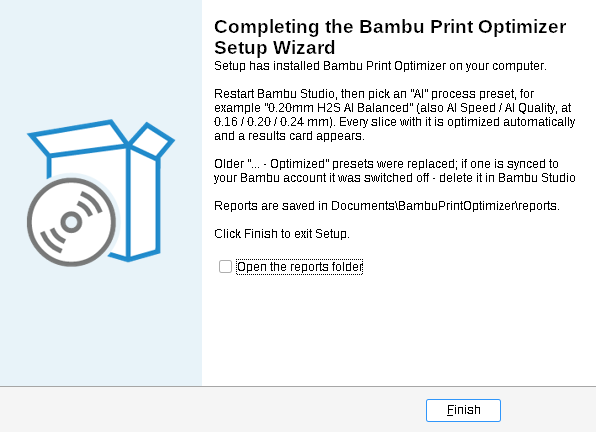
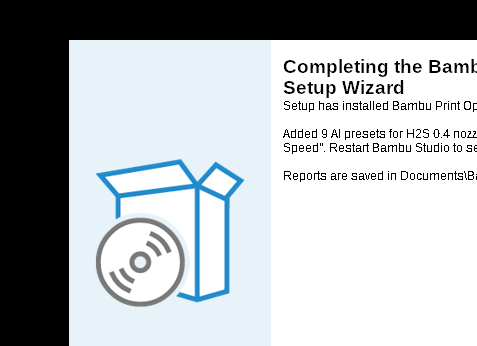
1.2.1: parse BambuStudio.conf with MD5 trailer, detect printer from presets.machine, sync-aware cleanup, finish-page status

diff --git a/src/bambu_presets.py b/src/bambu_presets.py
@@ -41,6 +41,33 @@ def _load(p):
         return None
 
 
+def load_conf(data_dir):
+    """BambuStudio.conf = JSON followed by a '# MD5 checksum ...' line (AppConfig::save). Strip '#' lines and
+    anything after the last '}'. Returns {} if unreadable. Never log the contents (it holds printer access codes)."""
+    try:
+        with open(os.path.join(data_dir, 'BambuStudio.conf'), encoding='utf-8', errors='replace') as f:
+            txt = f.read()
+    except OSError:
+        return {}
+    txt = '\n'.join(l for l in txt.splitlines() if not l.lstrip().startswith('#'))
+    end = txt.rfind('}')
+    if end < 0:
+        return {}
+    try:
+        j = json.loads(txt[:end + 1])
+        return j if isinstance(j, dict) else {}
+    except ValueError:
+        return {}
+
+
+def sync_enabled(conf):
+    """app.sync_user_preset: Bambu Studio only syncs user presets with the cloud when this is "true"
+    (GUI_App: start_sync_user_preset). Default false."""
+    app = conf.get('app') if isinstance(conf.get('app'), dict) else {}
+    v = app.get('sync_user_preset', False)
+    return v is True or str(v).strip().lower() in ('true', '1')
+
+
 def system_profiles_dir(data_dir, extra=()):
     """Bambu copies the vendor bundle to <data_dir>/system; fall back to the program's resources/profiles."""
     cands = [os.path.join(data_dir, 'system')] + list(extra)
@@ -54,27 +81,35 @@ def system_profiles_dir(data_dir, extra=()):
     return None
 
 
-def installed_printers(data_dir, sysdir):
-    """Machine preset names like 'Bambu Lab H2S 0.4 nozzle' the user has added in Bambu Studio."""
+def installed_printers(data_dir, sysdir, conf=None):
+    """System machine preset names like 'Bambu Lab H2S 0.4 nozzle' the user has in Bambu Studio, from:
+    conf "models" (enabled vendor models + nozzle variants), conf presets.machine (selected printer) and other
+    presets.* machine entries, and user machine presets (their "inherits", followed through user parents)."""
+    conf = load_conf(data_dir) if conf is None else conf
     found = []
-    conf = _load(os.path.join(data_dir, 'BambuStudio.conf')) or {}
-    # newer versions: "models": [{"model": "Bambu Lab H2S", "nozzle_diameter": "0.4;0.2", "vendor": "BBL"}]
-    for m in conf.get('models', []) if isinstance(conf.get('models'), list) else []:
-        if isinstance(m, dict) and m.get('vendor', 'BBL') == 'BBL' and m.get('model'):
+    models = conf.get('models') if isinstance(conf.get('models'), list) else []
+    for m in models:
+        if isinstance(m, dict) and str(m.get('vendor', 'BBL')) == 'BBL' and m.get('model'):
             for nd in re.split(r'[;,]', str(m.get('nozzle_diameter', '0.4'))):
-                if nd.strip():
-                    found.append('%s %s nozzle' % (m['model'], nd.strip()))
-    sel = (conf.get('presets') or {}).get('machine')
-    if isinstance(sel, str):
-        found.append(sel)
-    # user machine presets that inherit a system printer
+                nd = nd.strip().strip('"').strip()
+                if nd:
+                    found.append('%s %s nozzle' % (m['model'], nd))
+    presets = conf.get('presets') if isinstance(conf.get('presets'), dict) else {}
+    for k, v in presets.items():
+        if isinstance(v, str) and (k == 'machine' or k.startswith('machine')):
+            found.append(v)
+    user_machines = {}
     for p in glob.glob(os.path.join(data_dir, 'user', '*', 'machine', '*.json')):
         j = _load(p) or {}
-        if j.get('inherits'):
-            found.append(j['inherits'])
+        user_machines[j.get('name') or os.path.basename(p)[:-5]] = j.get('inherits', '')
+    for n in list(found) + list(user_machines):
+        seen = 0
+        while n in user_machines and seen < 10:      # user printer -> its (system) parent
+            n = user_machines[n]; seen += 1
+        found.append(n)
     out = []
     for n in found:
-        if n not in out and os.path.isfile(os.path.join(sysdir, 'BBL', 'machine', n + '.json')):
+        if n and n not in out and os.path.isfile(os.path.join(sysdir, 'BBL', 'machine', n + '.json')):
             out.append(n)
     return out
 
@@ -82,7 +117,7 @@ def installed_printers(data_dir, sysdir):
 def active_preset_folder(data_dir):
     """Folder Bambu Studio loads user presets from: BambuStudio.conf app.preset_folder (the account id when
     signed in, see PresetBundle::load_user_presets). Empty -> "default"."""
-    conf = _load(os.path.join(data_dir, 'BambuStudio.conf')) or {}
+    conf = load_conf(data_dir)
     app = conf.get('app') if isinstance(conf.get('app'), dict) else {}
     for v in (app.get('preset_folder'), conf.get('preset_folder')):
         if isinstance(v, str) and v.strip():
@@ -246,11 +281,12 @@ def _neutralize(path, j, info, note):
     _write_info(path[:-5] + '.info', _touch_info(info))
 
 
-def _retire(path, log, backup_dir, note):
-    """Remove one of our presets cloud-safely. Bambu Studio has no file-level "deleted" marker: cloud deletions
-    are only queued in memory by its own Delete command (GUI_App::delete_preset_from_cloud), and a cloud preset
-    that is missing locally is downloaded again on the next sync. So:
-      * not synced (no setting_id): delete the files
+def _retire(path, log, backup_dir, note, synced_folder):
+    """Remove one of our presets. Bambu Studio has no file-level "deleted" marker: cloud deletions are only queued
+    in memory by its own Delete command (GUI_App::delete_preset_from_cloud), and a cloud preset that is missing
+    locally is downloaded again on the next sync. So:
+      * cloud sync off for this folder (app.sync_user_preset false, or the offline "default" folder), or the preset
+        never got a cloud id: delete the files
       * synced: keep the file, clear post_process (+ note), mark it for upload -> harmless; delete it in Bambu."""
     j = _load(path)
     ipath = path[:-5] + '.info'
@@ -258,7 +294,7 @@ def _retire(path, log, backup_dir, note):
     uid = os.path.basename(os.path.dirname(os.path.dirname(path)))
     if backup_dir:
         _backup(path, backup_dir, uid)
-    if info.get('setting_id'):
+    if synced_folder and info.get('setting_id'):
         _neutralize(path, j, info, note)
         log('cleared cloud-synced preset (delete it in Bambu Studio): %s' % path)
         return 'cleared'
@@ -271,27 +307,45 @@ def _retire(path, log, backup_dir, note):
     return 'removed'
 
 
-def install(cmdline, data_dir=None, manifest=None, log=print, sysdir_extra=(), backup_dir=None):
-    """cmdline: post-processing line containing '{goal}', e.g. '"C:\\...\\PrintOptimizer.exe" --goal {goal}'."""
+def _folder_synced(ud, sync_on):
+    return sync_on and os.path.basename(ud) != 'default'
+
+
+def install(cmdline, data_dir=None, manifest=None, log=print, sysdir_extra=(), backup_dir=None, stats=None):
+    """cmdline: post-processing line containing '{goal}', e.g. '"C:\\...\\PrintOptimizer.exe" --goal {goal}'.
+    stats (dict, optional) is filled with printers / written / removed / cleared / skipped / status."""
+    st = stats if stats is not None else {}
+    st.update(printers=[], written=[], removed=[], cleared=[], skipped=[], status='')
     data_dir = data_dir or bambu_data_dir()
     sysdir = system_profiles_dir(data_dir, sysdir_extra)
     if not sysdir:
+        st['status'] = 'nosystem'
         log('Bambu Studio system profiles not found under %s - start Bambu Studio once, then run --install-presets again' % data_dir)
         return []
+    conf = load_conf(data_dir)
+    if not conf:
+        log('BambuStudio.conf not found or unreadable in %s' % data_dir)
+    sync_on = sync_enabled(conf)
+    log('Bambu cloud sync of user presets: %s' % ('on' if sync_on else 'off'))
     version = (_load(os.path.join(sysdir, 'BBL.json')) or {}).get('version', '01.00.00.00')
-    if not installed_printers(data_dir, sysdir):
+    st['printers'] = installed_printers(data_dir, sysdir, conf)
+    if not st['printers']:
+        st['status'] = 'noprinter'
         log('no Bambu Lab printers found in BambuStudio.conf / user machine presets - nothing to do')
         return []
+    log('printers: %s' % ', '.join(st['printers']))
     todo = plan(data_dir, sysdir)
-    written = []
+    written = st['written']
     for ud in user_dirs(data_dir):
         pdir = os.path.join(ud, 'process'); os.makedirs(pdir, exist_ok=True)
         uid = os.path.basename(ud)
+        synced = _folder_synced(ud, sync_on)
         # 1) migrate 1.0/1.1 "... - Optimized" presets (marked, or legacy ones pointing at this tool)
         for old in sorted(glob.glob(os.path.join(pdir, '*' + SUFFIX + '.json'))):
             if _is_ours(_load(old)):
-                _retire(old, log, backup_dir, 'Replaced by Print Optimizer presets named "<layer>mm <printer> AI <Goal>" '
-                        '(e.g. "0.20mm H2S AI Balanced"). This preset no longer post-processes - delete it in Bambu Studio.')
+                r = _retire(old, log, backup_dir, 'Replaced by Print Optimizer presets named "<layer>mm <printer> AI <Goal>" '
+                            '(e.g. "0.20mm H2S AI Balanced"). This preset no longer post-processes - delete it in Bambu Studio.', synced)
+                st[r].append(old)
         # 2) write the new set
         for name, parent, goal, base_id in todo:
             path = os.path.join(pdir, name + '.json')
@@ -299,6 +353,7 @@ def install(cmdline, data_dir=None, manifest=None, log=print, sysdir_extra=(), b
             exists = os.path.exists(path)
             old = _load(path) if exists else None
             if exists and not _is_ours(old):
+                st['skipped'].append(path)
                 log('skip %s: a preset with that name already exists and was not created by this tool' % path)
                 continue
             line = cmdline.replace('{goal}', goal)
@@ -327,6 +382,8 @@ def install(cmdline, data_dir=None, manifest=None, log=print, sysdir_extra=(), b
             _write_info(ipath, _touch_info(info))
             written.append(path)
             log('wrote preset: %s' % path)
+    st['status'] = 'ok'
+    st['names'] = [t[0] for t in todo]
     if manifest:
         prev = (_load(manifest) or {}).get('presets', [])
         with open(manifest, 'w', encoding='utf-8') as f:
@@ -334,11 +391,36 @@ def install(cmdline, data_dir=None, manifest=None, log=print, sysdir_extra=(), b
     return written
 
 
+def status_text(st):
+    """One short paragraph for the installer's finish page / message box."""
+    s = st.get('status')
+    if s == 'noprinter':
+        return ('No Bambu Lab printer was found in Bambu Studio, so no AI presets were added. Open Bambu Studio, add or '
+                'select your printer, close Bambu Studio, then run Start menu > Print Optimizer > "Add Bambu Studio presets".')
+    if s == 'nosystem':
+        return ('Bambu Studio\'s printer profiles were not found, so no AI presets were added. Start Bambu Studio once, '
+                'close it, then run Start menu > Print Optimizer > "Add Bambu Studio presets".')
+    if s != 'ok':
+        return 'The Bambu Studio presets could not be added (see presets.log in the install folder).'
+    names = st.get('names') or []
+    out = 'Added %d AI presets for %s, e.g. "%s".' % (len(names), ', '.join(
+        re.sub(r'^Bambu Lab ', '', p) for p in st.get('printers', [])), names[len(names) // 2] if names else '')
+    if st.get('removed'):
+        out += ' Old "... - Optimized" presets were removed.'
+    if st.get('cleared'):
+        out += (' %d old "... - Optimized" preset(s) synced to your Bambu account were switched off - delete them in '
+                'Bambu Studio.' % len(st['cleared']))
+    if st.get('skipped'):
+        out += ' %d preset name(s) were already used by your own presets and were left alone.' % len(st['skipped'])
+    return out + ' Restart Bambu Studio to see them.'
+
+
 def remove(data_dir=None, manifest=None, log=print, backup_dir=None):
     """Undo install() in every user/<id> folder: our "... AI <Goal>" and old "... - Optimized" presets only.
-    Unsynced ones are deleted; cloud-synced ones are cleared (see _retire) because Bambu Studio would re-download
-    a locally deleted cloud preset - which would still call the removed exe and make slicing fail."""
+    Deleted, except cloud-synced ones (sync on + cloud id), which are cleared (see _retire) because Bambu Studio
+    would re-download a locally deleted cloud preset - still calling the removed exe, so slicing would fail."""
     data_dir = data_dir or bambu_data_dir()
+    sync_on = sync_enabled(load_conf(data_dir))
     cands = set((_load(manifest) or {}).get('presets', [])) if manifest else set()
     for ud in user_dirs(data_dir):
         cands |= set(glob.glob(os.path.join(ud, 'process', '*.json')))
@@ -347,6 +429,8 @@ def remove(data_dir=None, manifest=None, log=print, backup_dir=None):
         j = _load(p)
         if j is None or not _owned(p, j):
             continue     # never touch unrelated presets
-        _retire(p, log, None, 'Bambu Print Optimizer was uninstalled; this preset no longer post-processes. Delete it in Bambu Studio.')
+        ud = os.path.dirname(os.path.dirname(p))
+        _retire(p, log, None, 'Bambu Print Optimizer was uninstalled; this preset no longer post-processes. Delete it in Bambu Studio.',
+                _folder_synced(ud, sync_on))
         done.append(p)
     return done

diff --git a/test/test_presets.py b/test/test_presets.py
@@ -28,7 +28,7 @@ def main():
               '0.12mm High Quality @BBL H2S', '0.20mm Strength @BBL H2S'):
         sysproc(d, n, [H2S])
     sysproc(d, 'fdm_process_common', [H2S], inst='false')
-    w(os.path.join(d, 'BambuStudio.conf'), {'app': {'preset_folder': '2132877600'}, 'models': [{'model': 'Bambu Lab H2S', 'nozzle_diameter': '0.4', 'vendor': 'BBL'}]})
+    w(os.path.join(d, 'BambuStudio.conf'), {'app': {'preset_folder': '2132877600', 'sync_user_preset': True}, 'models': [{'model': 'Bambu Lab H2S', 'nozzle_diameter': '0.4', 'vendor': 'BBL'}]})
 
     expected = ['%s H2S AI %s' % (l, g) for l in ('0.16mm', '0.20mm', '0.24mm') for g in ('Balanced', 'Speed', 'Quality')]
     names = [x[0] for x in bp.plan(d, os.path.join(d, 'system'))]
@@ -74,5 +74,51 @@ def main():
     print('test_presets: OK (%d presets for H2S 0.4: %s)' % (len(expected), ', '.join(expected)))
 
 
+def real_conf_case():
+    """Andrew's real layout: conf with '# MD5 checksum' trailer, printer only in presets.machine, no "models",
+    app.sync_user_preset false, empty user/*/machine folders, a marked 1.1.x preset in the account folder that
+    had a cloud id. Expect: 9 presets in each folder, the old preset DELETED (sync off), no access code in logs."""
+    d = tempfile.mkdtemp(); app = tempfile.mkdtemp(); logs = []
+    w(os.path.join(d, 'system', 'BBL.json'), {'version': '02.09.00.74'})
+    w(os.path.join(d, 'system', 'BBL', 'machine', H2S + '.json'), {'printer_model': 'Bambu Lab H2S', 'default_print_profile': '0.20mm Standard @BBL H2S'})
+    for n in ('0.16mm Standard @BBL H2S', '0.20mm Standard @BBL H2S', '0.24mm Standard @BBL H2S', '0.12mm High Quality @BBL H2S'):
+        sysproc(d, n, [H2S])
+    conf = open(os.path.join(os.path.dirname(os.path.abspath(__file__)), 'fixtures', 'BambuStudio.conf'), encoding='utf-8').read()
+    w(os.path.join(d, 'BambuStudio.conf'), conf)
+    try:
+        json.loads(conf); raise AssertionError('fixture should not be plain JSON')
+    except ValueError:
+        pass
+    for uid in ('default', '2132877600'):
+        os.makedirs(os.path.join(d, 'user', uid, 'machine'), exist_ok=True)      # exist, but empty
+    acct = os.path.join(d, 'user', '2132877600', 'process')
+    w(os.path.join(acct, OLD + '.json'), {'name': OLD, 'description': bp.MARK, 'post_process': ['"C:\\X\\PrintOptimizer.exe" --goal balanced']})
+    w(os.path.join(acct, OLD + '.info'), 'sync_info = \nuser_id = 2132877600\nsetting_id = PPUS1\nbase_id = GP158\nupdated_time = 1\n')
+
+    c = bp.load_conf(d)
+    assert c['presets']['machine'] == H2S and c['app']['preset_folder'] == '2132877600' and not bp.sync_enabled(c)
+    assert bp.installed_printers(d, os.path.join(d, 'system')) == [H2S]
+    st = {}
+    written = bp.install('"C:\\X\\PrintOptimizer.exe" --goal {goal}', d, os.path.join(app, 'm.json'), log=logs.append,
+                         backup_dir=os.path.join(app, 'bk'), stats=st)
+    assert st['status'] == 'ok' and len(written) == 18, (st.get('status'), len(written))
+    assert not os.path.exists(os.path.join(acct, OLD + '.json')) and not os.path.exists(os.path.join(acct, OLD + '.info'))
+    assert st['removed'] and not st['cleared']
+    text = bp.status_text(st)
+    assert 'Added 9 AI presets for H2S 0.4 nozzle' in text and 'delete them in Bambu Studio' not in text, text
+    assert not any('SECRET' in m for m in logs) and 'SECRET' not in text
+    # uninstall with sync off: everything of ours deleted, even with a cloud id
+    bp._write_info(os.path.join(acct, '0.20mm H2S AI Balanced.info'), {'setting_id': 'PPUS9', 'updated_time': '1'})
+    bp.remove(d, os.path.join(app, 'm.json'), log=logs.append)
+    assert not [f for f in os.listdir(acct) if f.endswith('.json')], os.listdir(acct)
+    # nothing detectable -> clear "noprinter" status, no files
+    w(os.path.join(d, 'BambuStudio.conf'), '{"app": {"preset_folder": ""}}\n# MD5 checksum 00\n')
+    st2 = {}
+    assert bp.install('x {goal}', d, None, log=logs.append, stats=st2) == [] and st2['status'] == 'noprinter'
+    assert 'No Bambu Lab printer was found' in bp.status_text(st2)
+    print('test_presets real-conf case: OK')
+
+
 if __name__ == '__main__':
     main()
+    real_conf_case()

diff --git a/src/bambu_optimizer.py b/src/bambu_optimizer.py
@@ -20,7 +20,7 @@ from emitter import emit, validate, rewrite_m73  # noqa: E402
 import report as R  # noqa: E402
 from progress import Progress, Cancelled, noop  # noqa: E402
 
-VERSION = '1.2.0'
+VERSION = '1.2.1'
 
 
 def windows_documents_dir():
@@ -219,7 +219,9 @@ def pick_file():
 def presets_cmd(a):
     import bambu_presets as bp
     manifest = os.path.join(app_dir(), 'presets_manifest.json')
-    msgs = []
+    msgs = ['--- %s %s %s' % (datetime.datetime.now().strftime('%Y-%m-%d %H:%M:%S'), VERSION,
+                                '--remove-presets' if a.remove_presets else '--install-presets')]
+    stats = {}
     def log(m):
         msgs.append(m); eprint(m)
     try:
@@ -233,11 +235,28 @@ def presets_cmd(a):
                 exe = sys.executable
                 w = os.path.join(os.path.dirname(exe), 'pythonw.exe')
                 line = bp.post_process_line(w if os.path.exists(w) else exe, os.path.abspath(__file__), ('--goal {goal} ' + a.pp_args).strip())
-            bp.install(line, a.bambu_dir, manifest, log, backup_dir=os.path.join(app_dir(), 'preset_backups'))
+            bp.install(line, a.bambu_dir, manifest, log, backup_dir=os.path.join(app_dir(), 'preset_backups'), stats=stats)
             if bp.bambu_running():
                 log('Bambu Studio is running - restart it to see the new presets.')
     except Exception as ex:
         log('preset step failed: %s' % ex)
+        stats['status'] = 'error'
+    if not a.remove_presets:
+        text = bp.status_text(stats)
+        try:   # read by the installer's finish page
+            with open(os.path.join(app_dir(), 'presets_status.txt'), 'w', encoding='utf-8') as f:
+                f.write(text + '\n')
+        except OSError:
+            pass
+        if not a.quiet and gui_available():   # Start menu "Add Bambu Studio presets"
+            try:
+                import tkinter as tk
+                from tkinter import messagebox
+                r = tk.Tk(); r.withdraw()
+                (messagebox.showinfo if stats.get('status') == 'ok' else messagebox.showwarning)('Print Optimizer', text)
+                r.destroy()
+            except Exception:
+                pass
     try:
         with open(os.path.join(app_dir(), 'presets.log'), 'a', encoding='utf-8') as f:
             f.write('\n'.join(msgs) + '\n')
@@ -334,6 +353,7 @@ def main(argv=None):
     ap.add_argument('--remove-presets', action='store_true', help='remove the presets created by --install-presets')
     ap.add_argument('--pp-args', default='', help='extra arguments added to the presets\' post-processing line (each preset already has its own --goal)')
     ap.add_argument('--bambu-dir', help=argparse.SUPPRESS)
+    ap.add_argument('--quiet', action='store_true', help=argparse.SUPPRESS)
     ap.add_argument('--open-reports', action='store_true', help='open the reports folder')
     ap.add_argument('--self-test', action='store_true', help=argparse.SUPPRESS)
     a = ap.parse_args(argv)

diff --git a/README.md b/README.md
@@ -47,14 +47,15 @@ A Python tool that checks a sliced Bambu Studio print and tweaks it, all on your
      - The presets are written into **every** Bambu Studio user folder: `%APPDATA%\BambuStudio\user\<account id>\process\` for each signed-in account, `user\default\` (signed out), and the active folder named in `BambuStudio.conf` (`preset_folder`). Bambu Studio only loads the folder of the account you are signed in with.
      - Presets this tool already created are updated in place. Your own tweaks and the Bambu cloud id are kept, and the preset is marked for upload. A preset of yours that happens to have the same name is never changed.
      - **Upgrading from 1.0/1.1:** the old `... - Optimized` presets (marked ones, or older manual ones whose post-processing line points at `bambu_optimizer.py` / `PrintOptimizer`) are backed up to `%LOCALAPPDATA%\Programs\PrintOptimizer\preset_backups\`, then retired.
-       - If the old preset isn't synced to the cloud, it is deleted.
-       - If it is synced to your Bambu account, its post-processing line is cleared and a note is added. Bambu Studio can delete a cloud preset only through its own Delete command; a cloud preset deleted on disk is downloaded again at the next sync. **Delete it in Bambu Studio** (select it → Delete).
-   - Start menu: **Print Optimizer** (pick a sliced `.gcode.3mf` and optimize it by hand) and **Print Optimizer reports** (opens the reports folder).
+       - If preset sync is off, which is Bambu Studio's default, or the old preset isn't synced, it is deleted.
+       - If it is synced to your Bambu account (Bambu Studio's *Sync user presets* setting is on, `app.sync_user_preset` in `BambuStudio.conf`), its post-processing line is cleared and a note is added. Bambu Studio can delete a cloud preset only through its own Delete command; a cloud preset deleted on disk is downloaded again at the next sync. **Delete it in Bambu Studio** (select it → Delete).
+   - Start menu: **Print Optimizer** (pick a sliced `.gcode.3mf` and optimize it by hand), **Add Bambu Studio presets** (run it again after adding a printer in Bambu Studio), and **Print Optimizer reports** (opens the reports folder).
+   - The finish page says what happened: how many presets were added, or that no Bambu Lab printer was found. Printers are detected from `BambuStudio.conf` (`presets.machine`, `models`) and from your user printer presets.
 3. Start Bambu Studio, pick an AI preset such as `0.20mm H2S AI Balanced`, and slice as usual.
 
 **Uninstall:** Windows Settings → Apps → *Bambu Print Optimizer* → Uninstall (or the Start menu entry). This removes the program and the shortcuts, and cleans up the same user folders.
 - The `... AI <Goal>` presets (and any old `... - Optimized` ones) that belong to this tool are deleted.
-- Presets that are synced to your Bambu cloud account are kept, but their post-processing line is cleared. Deleting them locally would make Bambu Studio download the cloud copy again, still pointing at the removed exe, and slicing would fail. Delete them in Bambu Studio if you don't want them.
+- Presets that are synced to your Bambu cloud account (only when preset sync is on) are kept, but their post-processing line is cleared. Deleting them locally would make Bambu Studio download the cloud copy again, still pointing at the removed exe, and slicing would fail. Delete them in Bambu Studio if you don't want them.
 - Your reports in `Documents\BambuPrintOptimizer` and the preset backups are kept.
 
 **Silent install** (for scripting): `PrintOptimizer-Setup-<version>.exe /VERYSILENT /SUPPRESSMSGBOXES`. Add `/TASKS="startmenu"` to skip the presets.
